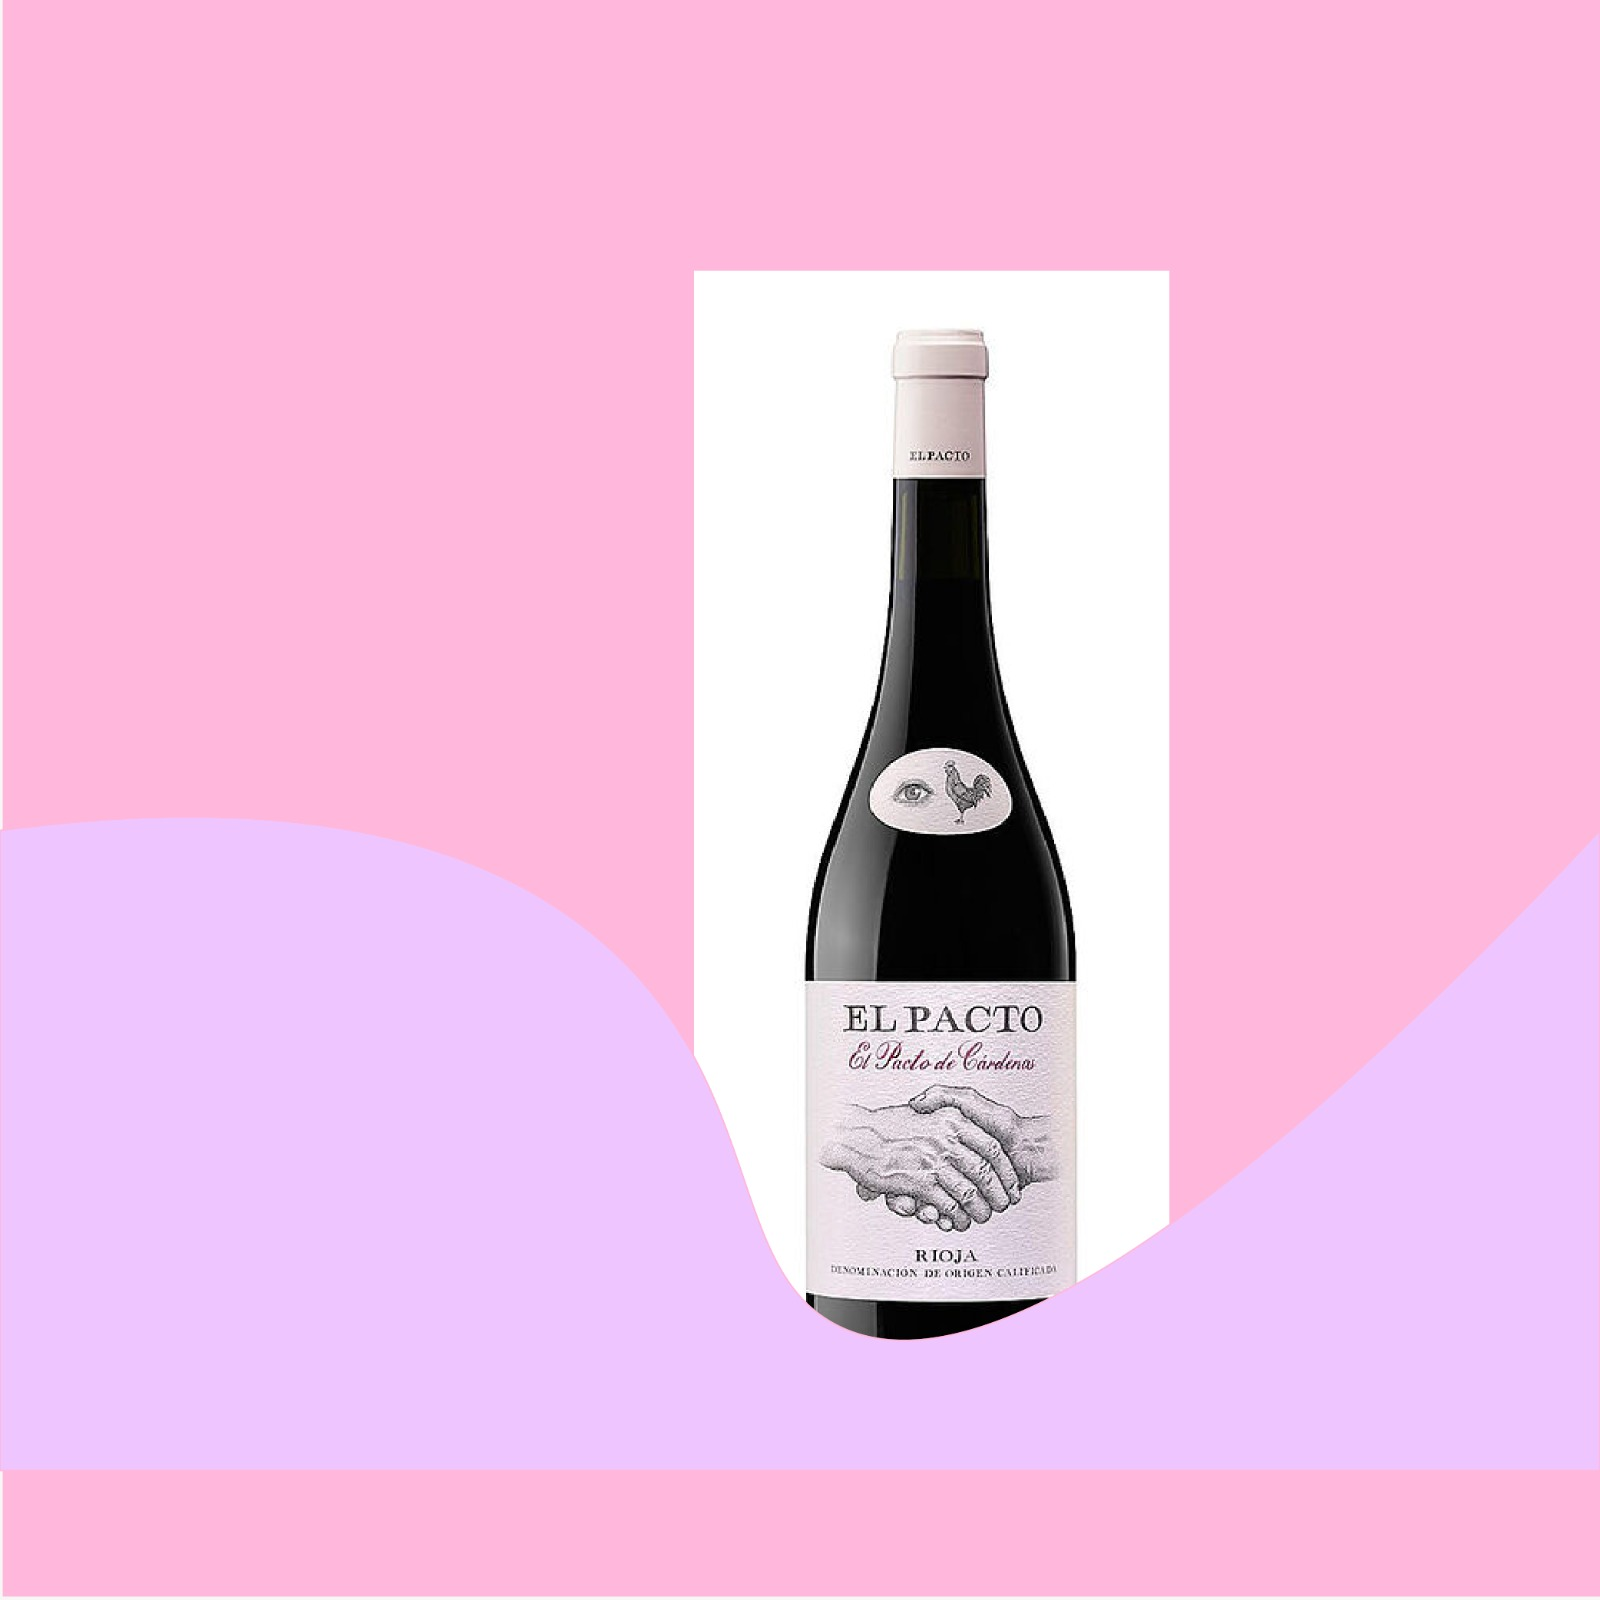
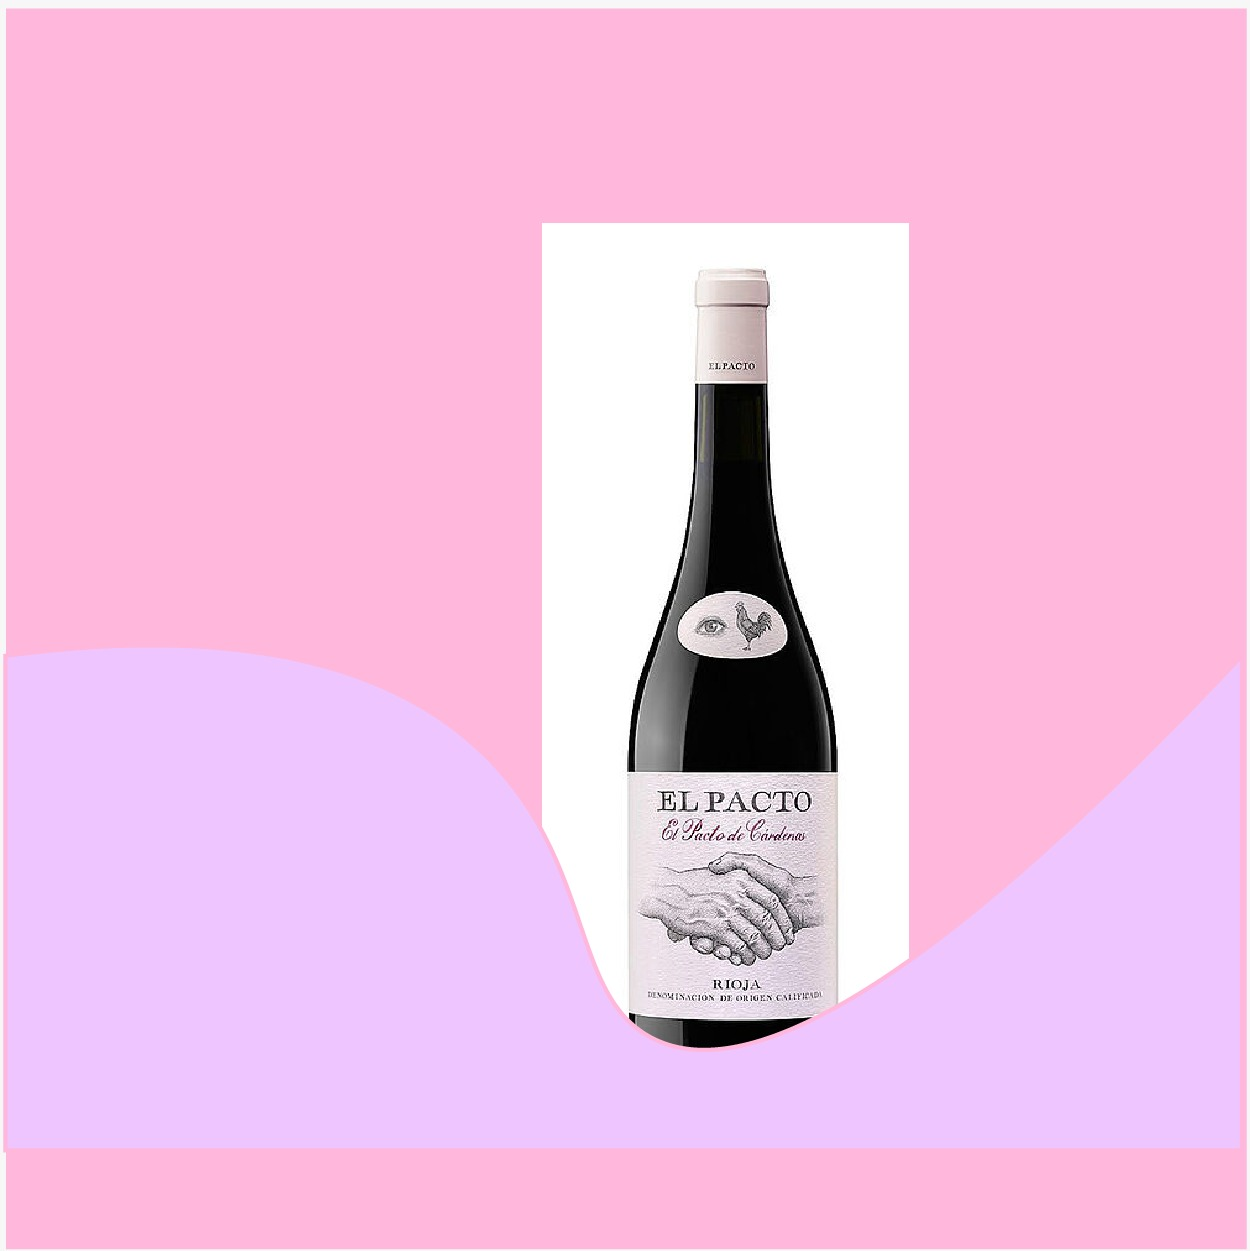
Se ajustaron las imagenes a menor tamaño

diff --git a/index.html b/index.html
@@ -20,7 +20,7 @@
                   <div class="season-content-mady">
                     <div class="columns is-desktop">
                       <div class="column">
-                        <figure class="image is-256x256">
+                        <figure class="image is-square">
                           <img src="./img/img_1.jpeg">
                         </figure>
                       </div>
